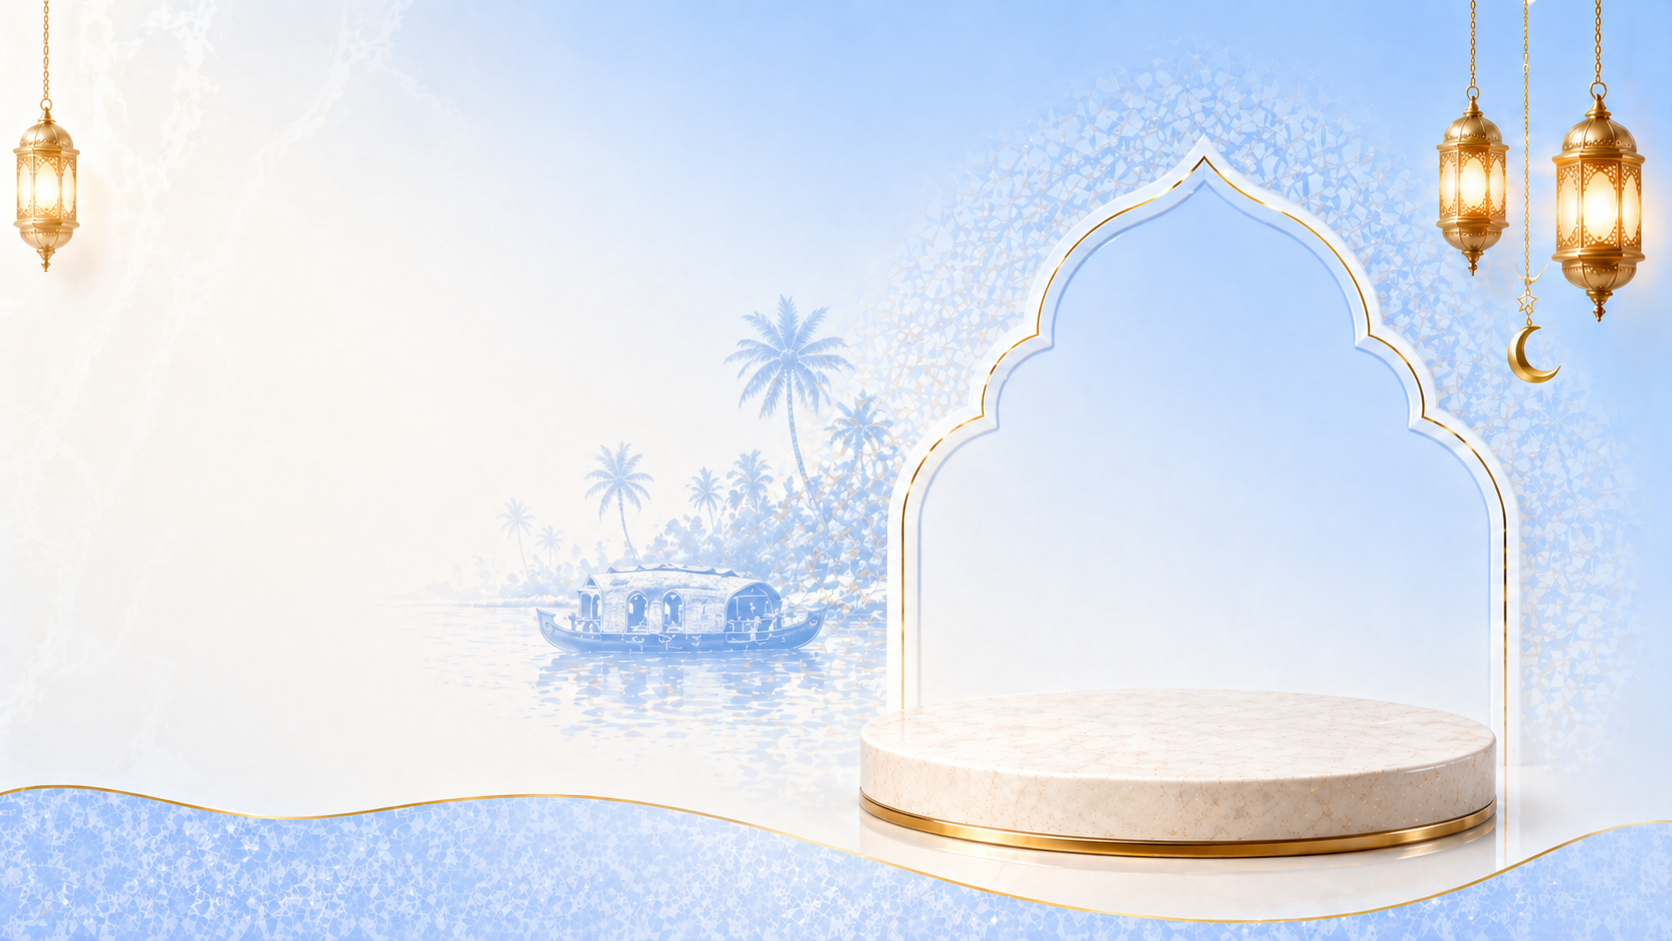
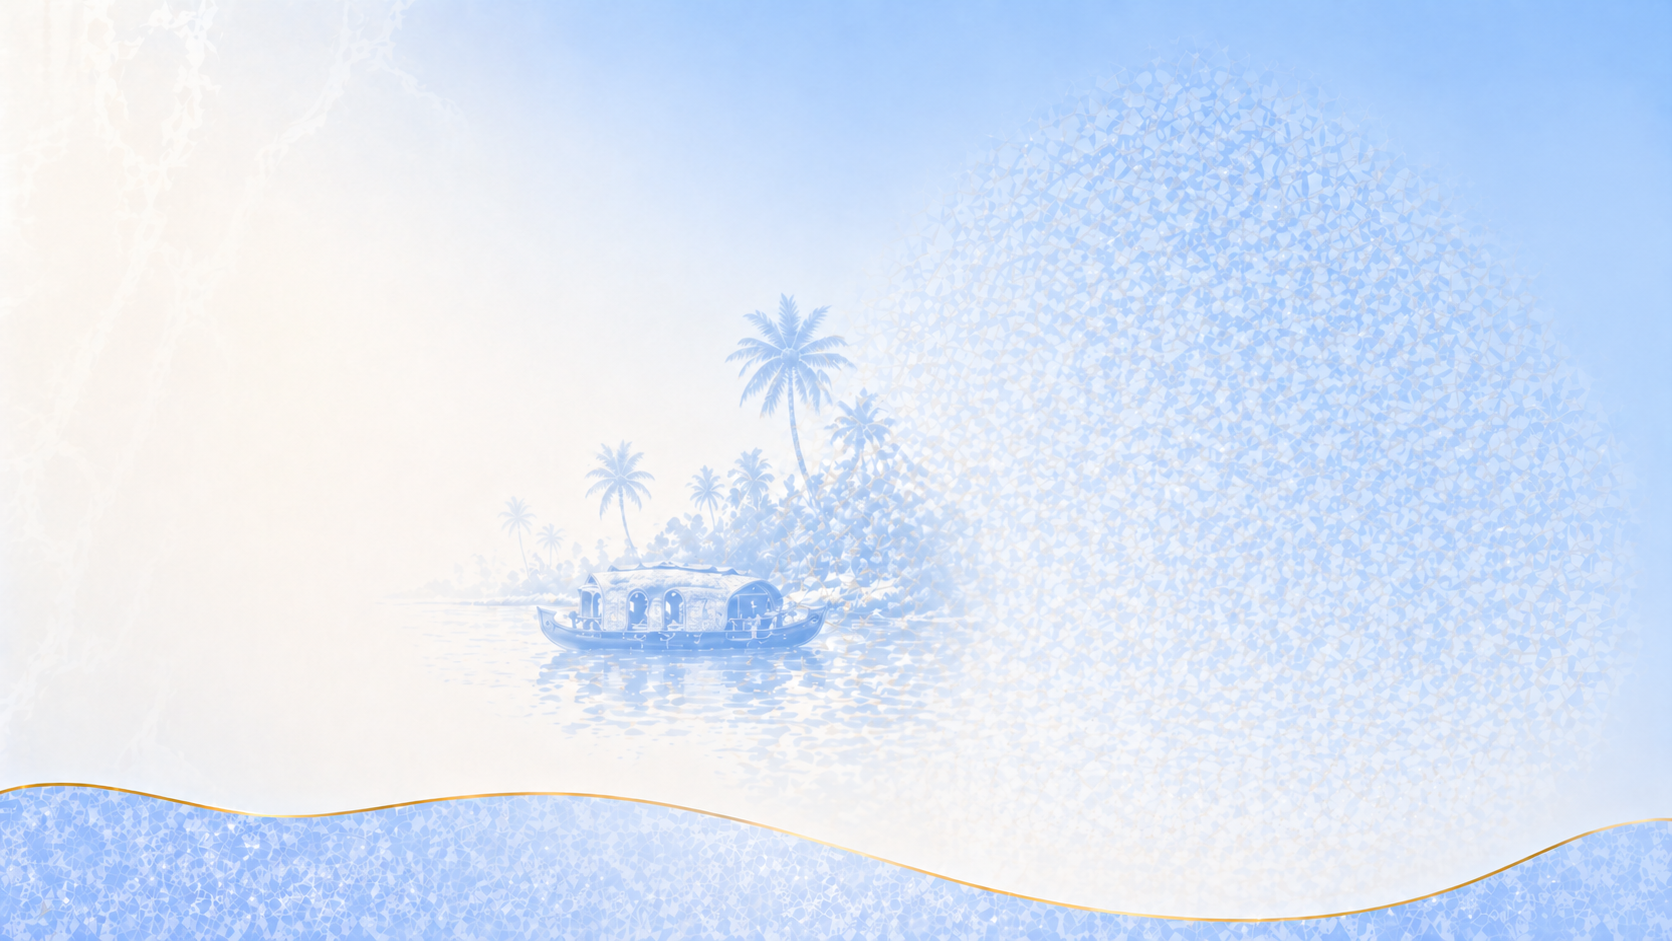
arch and carousel fixed

diff --git a/index.html b/index.html
@@ -15,17 +15,26 @@
 </head>
 
 <body>
-<svg style="width: 0; height: 0; position: absolute;" aria-hidden="true" focusable="false">
+<svg style="width:0;height:0;position:absolute;">
   <defs>
     <clipPath id="archClip" clipPathUnits="objectBoundingBox">
-      <path d="M 0.5,0.1
-               C 0.85,0.1 0.80,0.25 0.8,0.25 
-               C 0.95,0.3 0.95,0.45 0.95,0.5 
-               L 0.93,1
-               L 0.05,1 
-               L 0.05,0.5 
-               C 0.05,0.45 0.05,0.3 0.2,0.25 
-               C 0.3,0.2 0.45,0.1 0.5,0 Z" />
+      <path d="
+        M0.5,0.05
+
+        C0.60,0.05 0.68,0.10 0.70,0.18
+        C0.75,0.18 0.80,0.18 0.88,0.38
+        C0.99,0.45 0.99,0.50 0.99,0.55
+
+        L0.99,1
+        L0.05,1
+
+        L0.05,0.55
+        C0.05,0.50 0.05,0.42 0.10,0.38
+        C0.12,0.28 0.20,0.20 0.30,0.18
+        C0.32,0.10 0.40,0.05 0.5,0.05
+
+        Z
+      " />
     </clipPath>
   </defs>
 </svg>
@@ -109,21 +118,25 @@
                 </div>
                 <div class="arc-carousel">
 
-    <div class="arc-wrapper">
+  <div class="arc-wrapper">
 
-        <div class="arch-mask">
+    <!-- ✅ Arch Frame -->
+    <img src="assets/arch.png" class="arch-frame" alt="Arch">
 
-            <div class="arc-track">
-                <img src="assets/heroproduct-1.png" class="arc-item pos1">
-                <img src="assets/heroproduct-2.png" class="arc-item pos2">
-                <img src="assets/heroproduct-3.png" class="arc-item pos3">
-                <img src="assets/heroproduct-2.png" class="arc-item pos4">
-                <img src="assets/heroproduct-5.png" class="arc-item pos5">
-            </div>
+    <!-- ✅ Masked Area -->
+    <div class="arch-mask">
 
-        </div>
+      <div class="arc-track">
+        <img src="assets/heroproduct-1.png" class="arc-item pos1">
+        <img src="assets/heroproduct-2.png" class="arc-item pos2">
+        <img src="assets/heroproduct-3.png" class="arc-item pos3">
+        <img src="assets/heroproduct-2.png" class="arc-item pos4">
+        <img src="assets/heroproduct-5.png" class="arc-item pos5">
+      </div>
 
     </div>
+
+  </div>
 
 </div>
         </section>

diff --git a/css/animations.css b/css/animations.css
@@ -177,23 +177,48 @@ to{width:100%}
 /* WRAPPER */
 .arc-wrapper {
     position: relative;
-    width: 600px;
-    height: 600px;
+    width: 520px;
+    height: 520px;
 
-    margin-top: 55px;
-    right: -190px;
+    margin-top: 40px;
+    right: -120px;
 }
+/* ===============================
+   ARCH FRAME (NEW)
+=============================== */
 
+.arch-frame {
+    position: absolute;
+    inset: 0;
+    width: 220%;
+    height: 220%;
+    transform: translateX(-150px);
+    object-fit: contain;
+    margin-top: -350px;
+    
+    z-index: 2; /* above products */
+    pointer-events: none;
+}
 .arch-mask {
     position: absolute;
     inset: 0;
     overflow: hidden;
     clip-path: url(#archClip);
+    transform: translateX(130px);
+    z-index: 2;
+
+    display: flex;
+    justify-content: center;
+    align-items: center;
 }
 /* TRACK */
 .arc-track {
     position: absolute;
     inset: 0;
+    width: 75%;
+    height: 70%;
+
+    margin: auto;
 }
 
 /* ITEM */
@@ -215,11 +240,11 @@ to{width:100%}
 
 /* center */
 .pos3 {
-    width: 400px;
-    left: 15%;
-    top: 20%;
+    width: 370px;
+    left: 0%;
+    top: 15%;
     transform: translate(-50%, -50%);
-    z-index: 3;
+    z-index: 5;
 }
 
 /* upper */
@@ -245,7 +270,7 @@ to{width:100%}
 /* far top */
 .pos1 {
     width: 110px;
-    left: 110%;
+    left: 80%;
     top: 5%;
     transform: translate(-50%, -50%);
     opacity: 0;

diff --git a/css/main.css b/css/main.css
@@ -45,8 +45,8 @@ h1, h2, h3 {
 
     /* 🔥 NEW BACKGROUND IMAGE */
     background-image: url("../assets/hero-bg.png"); /* adjust path if needed */
-    background-size: cover;
-    background-position: right center;
+    background-size: cover; /* Ensures the image covers the entire area */
+    background-position: center;
     background-repeat: no-repeat;
 
     display: flex;
@@ -55,6 +55,7 @@ h1, h2, h3 {
     position: relative;
     z-index: 2;
     margin-top: -120px;
+    margin-right: 5px;
     padding-top: 160px;
 
     /* ❌ REMOVE OLD ANIMATION */
@@ -75,7 +76,7 @@ h1, h2, h3 {
 .hero-text {
     max-width: 520px;
     margin-top: -100px;
-    transform: translateX(-450px);
+    transform: translateX(-350px);
 }
 
 .hero-text h1 {